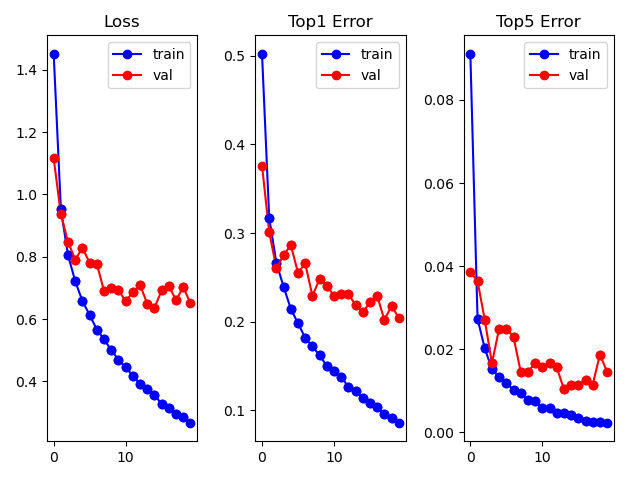
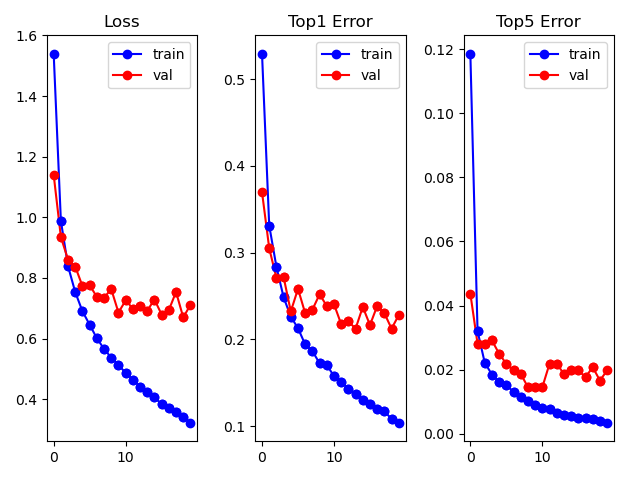
modifying model file

diff --git a/python_starter_code/model.py b/python_starter_code/model.py
@@ -12,9 +12,8 @@ class CNN(nn.Module):
         # input image size = 1x112x112
 
         # convolution layer 1
-        self.conv1 = nn.Conv2d(1, 8, kernel_size=7, stride=1, padding=0, bias=True)
-        nn.init.kaiming_uniform_(self.conv1.weight, a=0.01, mode='fan_in', nonlinearity='leaky_relu')
-        nn.init.zeros_(self.conv1.bias)
+        self.conv1 = nn.Conv2d(1, 8, kernel_size=7, stride=1, padding=0, bias=False)
+        nn.init.kaiming_uniform_(self.conv1.weight)
         # layer normalization layer 1
         self.norm1 = nn.LayerNorm([8, 106, 106])
         # leaky ReLU layer 1
@@ -22,10 +21,10 @@ class CNN(nn.Module):
         # max pooling layer 1
         self.pool1 = nn.MaxPool2d(kernel_size=2, stride=2)
 
-
+        
         # depthwise convolution layer
         self.depthwise_conv = nn.Conv2d(8, 8, kernel_size=7, stride=2, padding=0, groups=8, bias=False)
-        nn.init.kaiming_uniform_(self.depthwise_conv.weight, a=0.01, mode='fan_in', nonlinearity='leaky_relu')
+        nn.init.kaiming_uniform_(self.depthwise_conv.weight)
         # layer normalization layer 2
         self.norm2 = nn.LayerNorm([8, 24, 24])
         # leaky ReLU layer 2
@@ -40,7 +39,7 @@ class CNN(nn.Module):
 
         # depthwise convolution layer
         self.depthwise_conv2 = nn.Conv2d(16, 16, kernel_size=7, stride=1, padding=0, groups=16, bias=False)
-        nn.init.kaiming_uniform_(self.depthwise_conv2.weight, a=0, mode='fan_in', nonlinearity='leaky_relu')
+        nn.init.kaiming_uniform_(self.depthwise_conv2.weight)
         # layer normalization layer 3
         self.norm3 = nn.LayerNorm([16, 6, 6])
         # leaky ReLU layer 3
